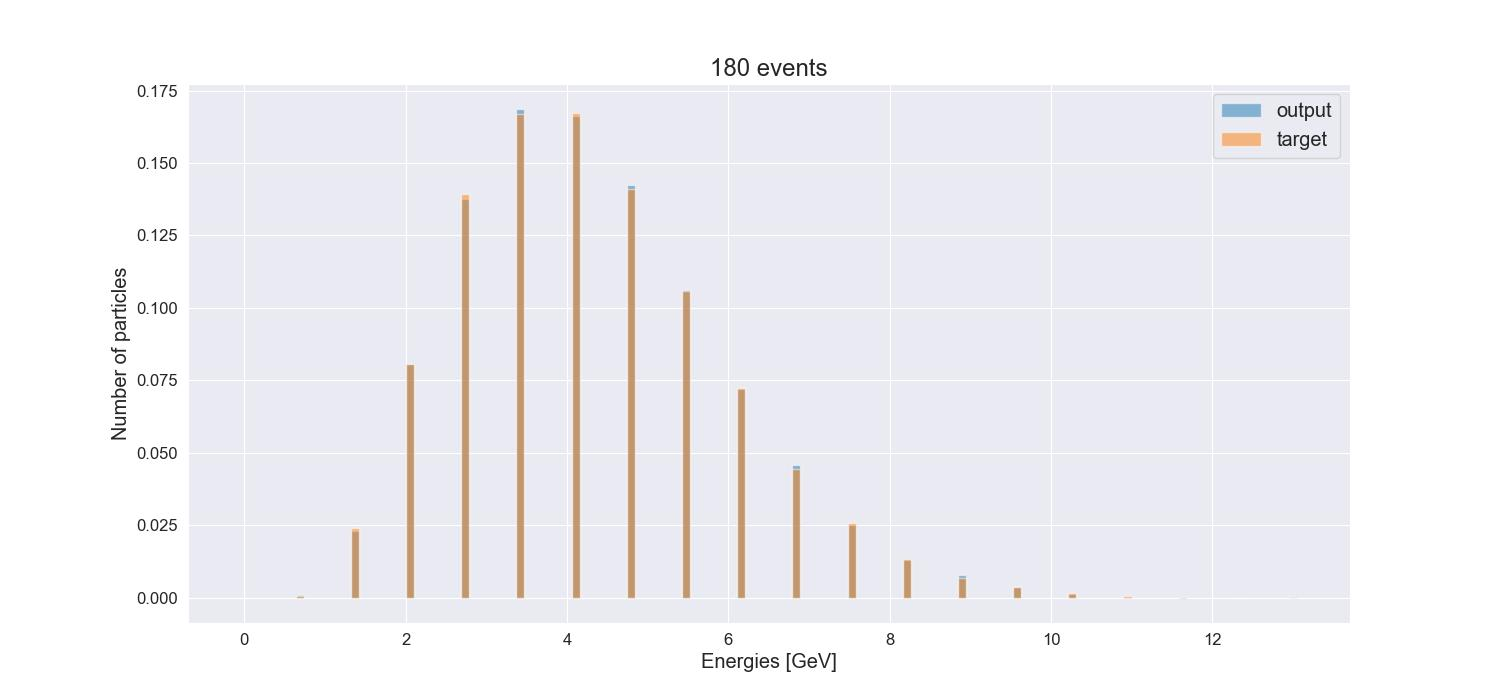
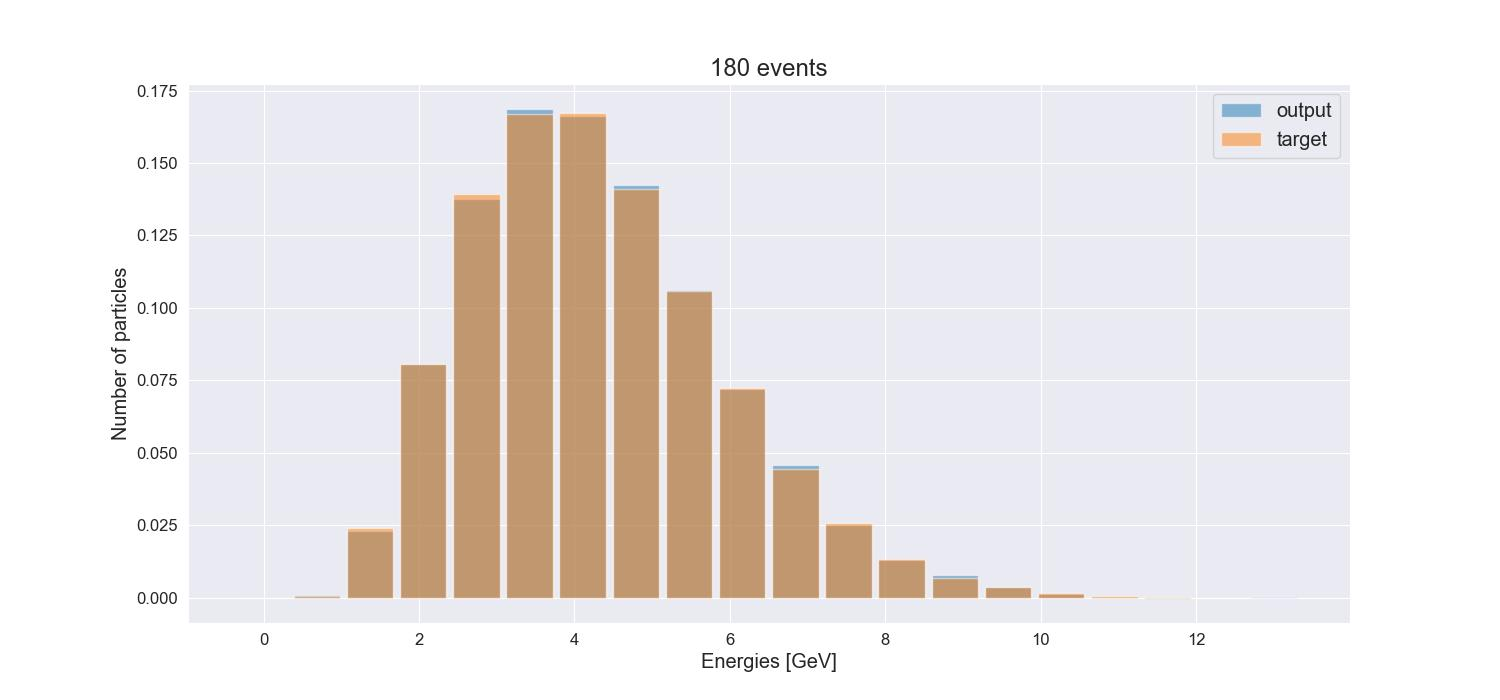
u

diff --git a/presentation/presentation.py b/presentation/presentation.py
@@ -35,14 +35,15 @@ for i in range(1, 5):
     ho = np.array(pd.read_csv(f'./presentation/ho{i}.csv')) # hist_output
     ht = np.array(pd.read_csv(f'./presentation/ht{i}.csv')) # hist_target
     energies = np.linspace(0, 13, ho.sum(axis=0).shape[0])
+    width = 0.1 if ho.sum(axis=0).shape[0] > 30 else 0.6
 
     # ==== hist figure ==== #
 
     sns.set_style("darkgrid")
     plt.figure(num=0)
     plt.clf()
-    plt.bar(x=energies, height=ho.sum(axis=0), label='output', alpha=0.5, width=0.1)
-    plt.bar(x=energies, height=ht.sum(axis=0), label='target', alpha=0.5, width=0.1)
+    plt.bar(x=energies, height=ho.sum(axis=0), label='output', alpha=0.5, width=width)
+    plt.bar(x=energies, height=ht.sum(axis=0), label='target', alpha=0.5, width=width)
     plt.legend()
     plt.xlabel('Energies [GeV]')
     plt.ylabel('Number of particles')
